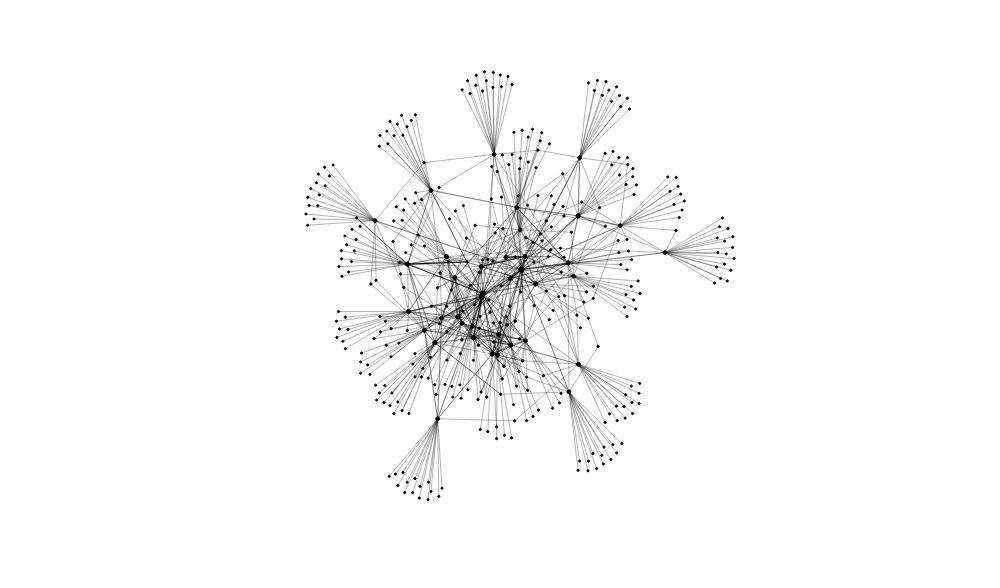
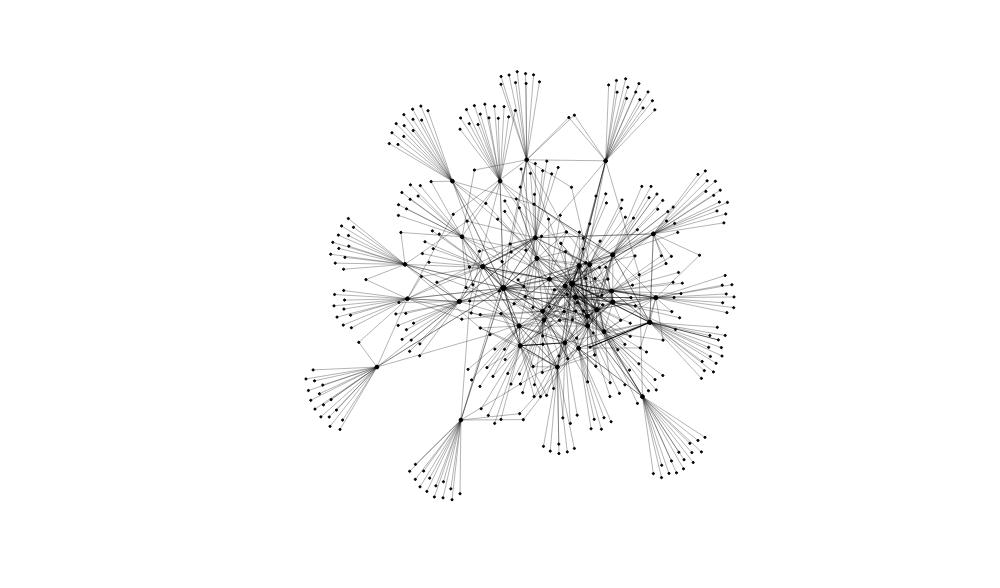
testing igraph plot

Changed region(s): [[0.31, 0.1224, 0.744, 0.8571]]

diff --git a/docs/README.md b/docs/README.md
@@ -473,7 +473,8 @@ graph_demo = grapherdemo(5, token_filter3('all', 1940, 2020, token.all))
 
 ``` r
 g_demo = graph_demo[[1]]
-visIgraph(g_demo)
+#visIgraph(g_demo)
+plot(g_demo)
 ```
 
 ![](README_files/figure-gfm/unnamed-chunk-12-1.jpeg)<!-- -->
